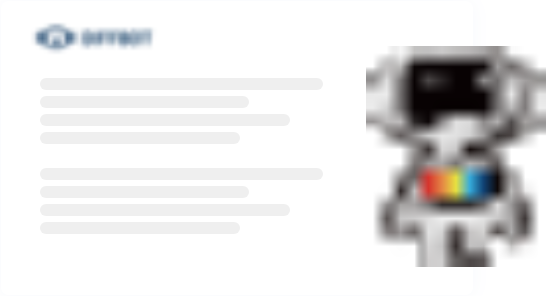
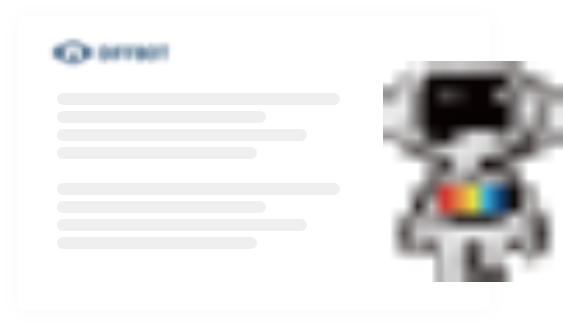
add sectionA animation

diff --git a/src/features/sectionA.jsx b/src/features/sectionA.jsx
@@ -1,6 +1,6 @@
-import React from 'react';
+import React, { useState } from 'react';
 import clsx from 'clsx';
-import { makeStyles, Typography, Container, Grid, Button, Box } from '@material-ui/core';
+import { makeStyles, Typography, Container, Grid, Button, Box, Slide } from '@material-ui/core';
 
 import FullPixelImage from '../components/fullPixelImage';
 
@@ -32,11 +32,22 @@ const useStyles = makeStyles(theme => ({
     [theme.breakpoints.up('md')]: {
       padding: '80px 0',
     },
+    position: 'relative',
+  },
+  animatedDiv: {
+    width: '100%',
+    position: 'absolute',
   },
 }));
 
 const SectionA = () => {
   const classes = useStyles();
+  const [count, setCount] = useState(0);
+
+  const handleButtonClick = () => {
+    setCount(count + 1);
+  };
+
   return (
     <section className={classes.section}>
       <Container className={clsx(classes.fullHeight, classes.container)}>
@@ -67,7 +78,13 @@ const SectionA = () => {
                   </Button>
                 </Grid>
                 <Grid item>
-                  <Button color="primary" variant="outlined" disableElevation style={{ width: 126 }}>
+                  <Button
+                    color="primary"
+                    variant="outlined"
+                    disableElevation
+                    style={{ width: 126 }}
+                    onClick={handleButtonClick}
+                  >
                     Enhance!
                   </Button>
                 </Grid>
@@ -82,7 +99,21 @@ const SectionA = () => {
               alignItems="center"
               className={clsx(classes.fullHeight, classes.centerGrid)}
             >
-              <FullPixelImage className={classes.FullPixelImage} />
+              <Slide direction="left" in={count === 0} mountOnEnter unmountOnExit>
+                <div className={classes.animatedDiv}>
+                  <FullPixelImage level="full" className={classes.FullPixelImage} />
+                </div>
+              </Slide>
+              <Slide direction="left" in={count === 1} mountOnEnter unmountOnExit>
+                <div className={classes.animatedDiv}>
+                  <FullPixelImage level="semi" className={classes.FullPixelImage} />
+                </div>
+              </Slide>
+              <Slide direction="left" in={count >= 2} mountOnEnter unmountOnExit>
+                <div className={classes.animatedDiv}>
+                  <FullPixelImage level="clear" className={classes.FullPixelImage} />
+                </div>
+              </Slide>
             </Grid>
           </Grid>
         </Grid>

diff --git a/src/components/fullPixelImage.jsx b/src/components/fullPixelImage.jsx
@@ -1,12 +1,28 @@
+/* eslint-disable react/prop-types */
 /* eslint-disable import/prefer-default-export */
 import React from 'react';
 import { useStaticQuery, graphql } from 'gatsby';
 import Img from 'gatsby-image';
 
 const FullPixelImage = props => {
+  const { level } = props;
   const data = useStaticQuery(graphql`
     query {
-      placeholderImage: file(relativePath: { eq: "fullPixel-image.png" }) {
+      full: file(relativePath: { eq: "fullPixel-image.png" }) {
+        childImageSharp {
+          fluid(pngQuality: 100, maxWidth: 600) {
+            ...GatsbyImageSharpFluid
+          }
+        }
+      }
+      semi: file(relativePath: { eq: "semiPixel-image.png" }) {
+        childImageSharp {
+          fluid(pngQuality: 100, maxWidth: 600) {
+            ...GatsbyImageSharpFluid
+          }
+        }
+      }
+      clear: file(relativePath: { eq: "clear-image.png" }) {
         childImageSharp {
           fluid(pngQuality: 100, maxWidth: 600) {
             ...GatsbyImageSharpFluid
@@ -16,7 +32,7 @@ const FullPixelImage = props => {
     }
   `);
 
-  return <Img fluid={data.placeholderImage.childImageSharp.fluid} {...props} />;
+  return <Img fluid={data[level].childImageSharp.fluid} {...props} />;
 };
 
 export default FullPixelImage;

diff --git a/src/features/footer.jsx b/src/features/footer.jsx
@@ -2,7 +2,7 @@ import React from 'react';
 import clsx from 'clsx';
 import { makeStyles, Typography, Container, Grid, Button, Box } from '@material-ui/core';
 
-import Logo from '../components/logo';
+// import Logo from '../components/logo';
 
 const useStyles = makeStyles(theme => ({
   section: {

diff --git a/src/features/header.jsx b/src/features/header.jsx
@@ -1,7 +1,7 @@
 import React from 'react';
 import { Typography, Container, Grid, AppBar, Toolbar, Box, makeStyles } from '@material-ui/core';
 
-import Logo from '../components/logo';
+import Logo from '../assets/images/logo.svg';
 
 const useStyles = makeStyles(theme => ({
   section: {

diff --git a/src/pages/index.jsx b/src/pages/index.jsx
@@ -94,7 +94,7 @@ const IndexPage = () => {
       <SectionD />
       <SectionE />
       <SectionF />
-      <Footer />
+      {/* <Footer /> */}
     </ThemeProvider>
   );
 };
